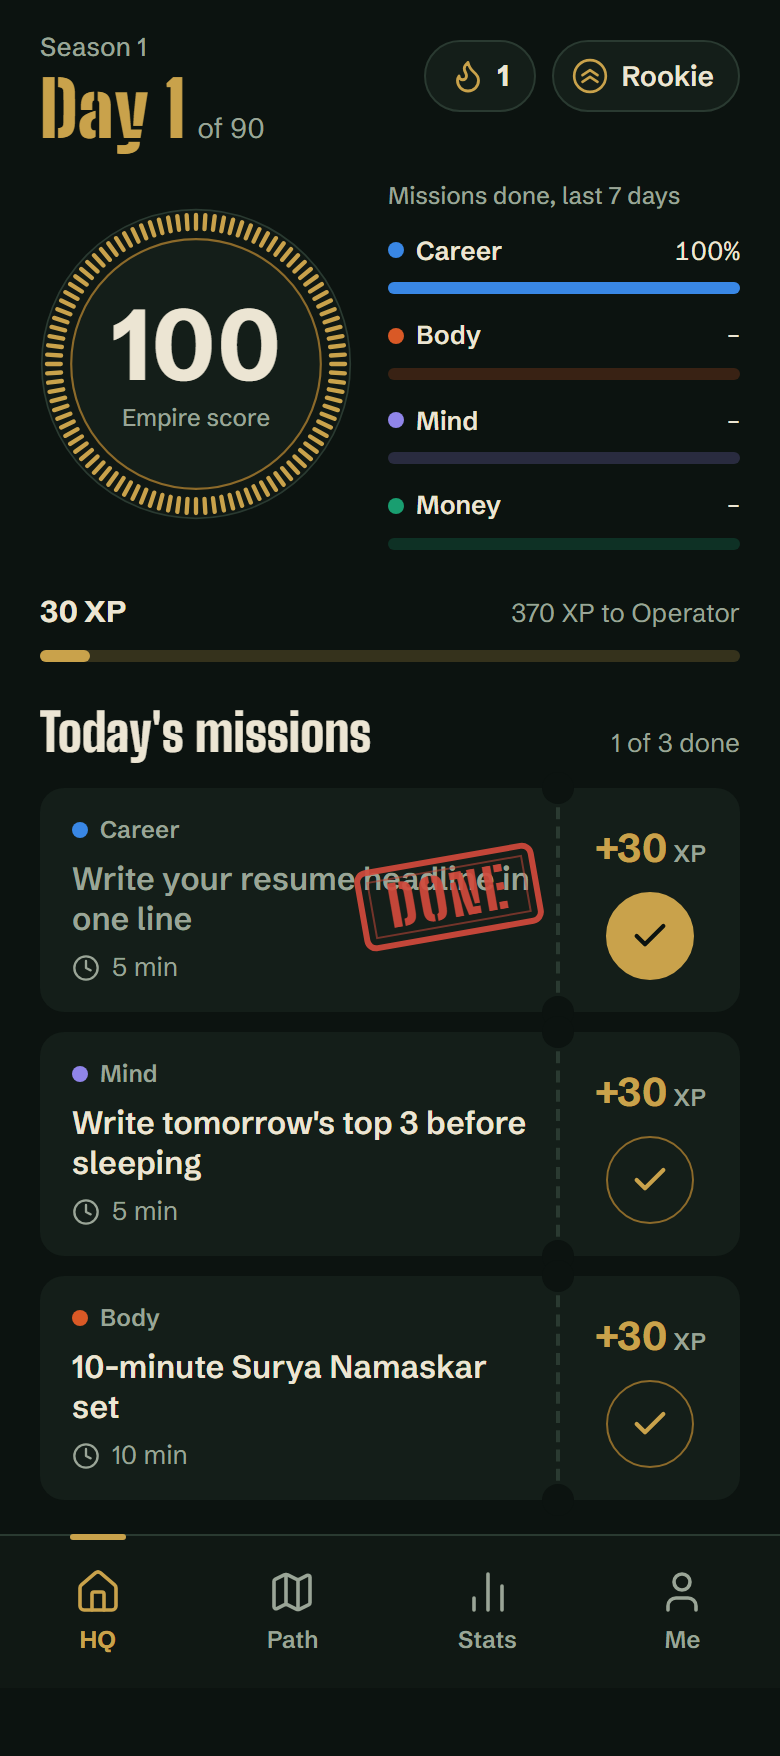
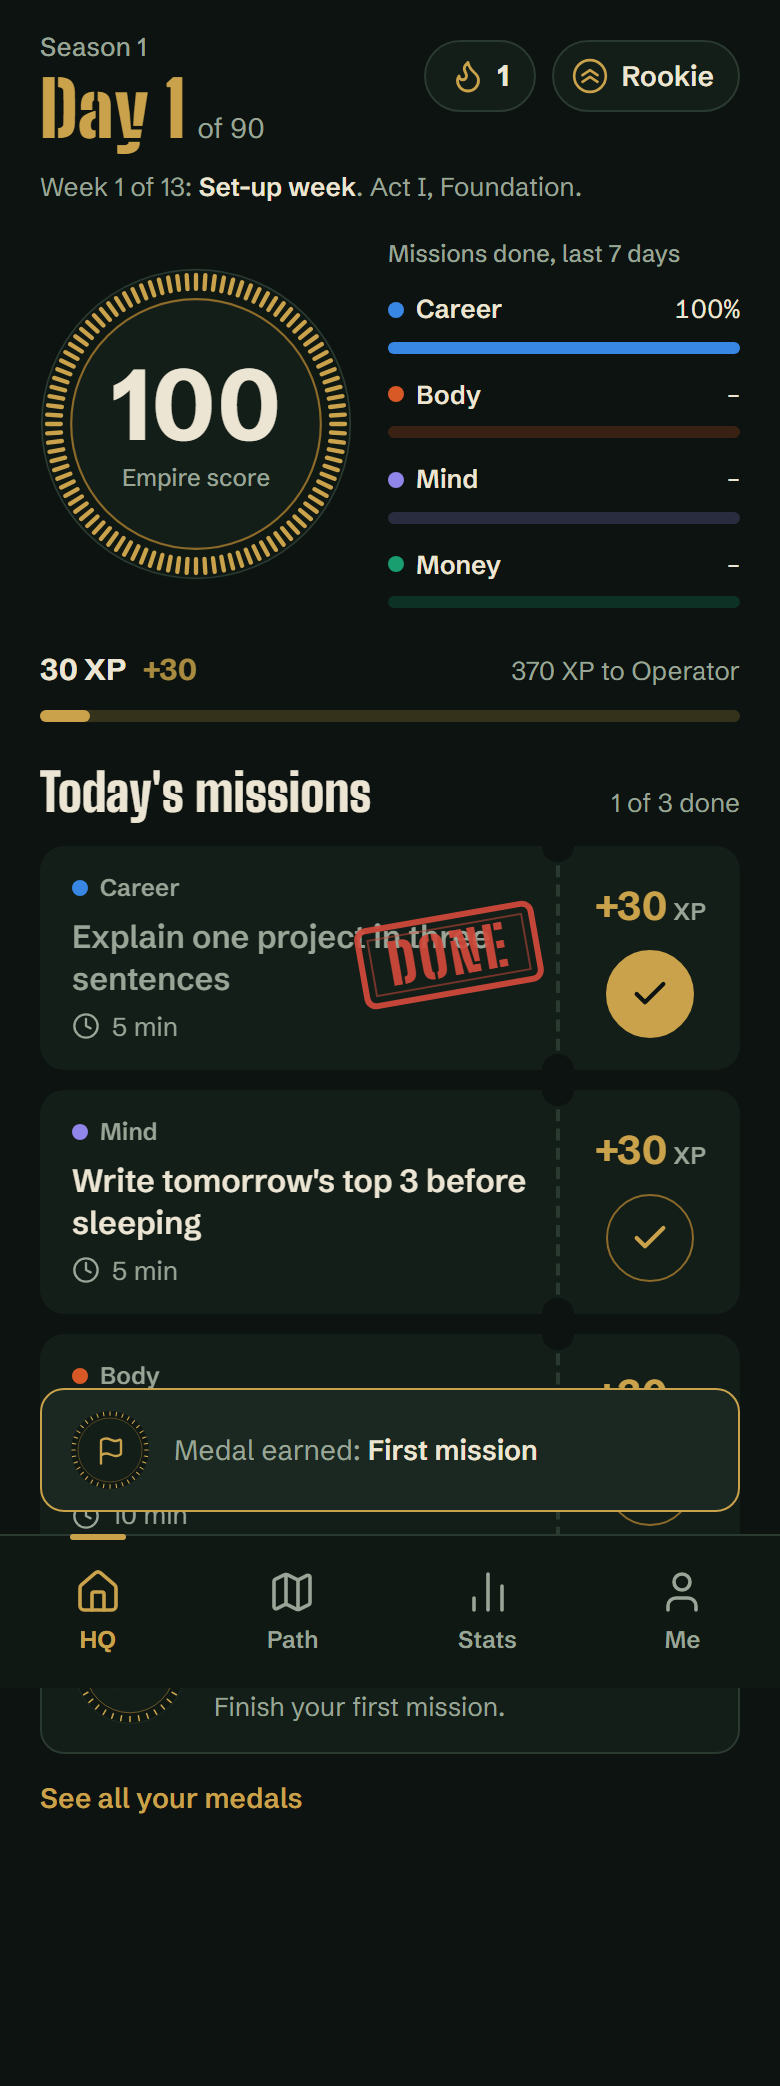
Describe Season 2 in the docs and refresh the portfolio screenshots

diff --git a/docs/PRODUCT.md b/docs/PRODUCT.md
@@ -73,6 +73,8 @@ Goal: a new visitor reaches their plan in under 3 minutes and feels it was made 
 
 **Season:** 90 days in three acts. Act I Foundation (weeks 1 to 4), Act II Execution (weeks 5 to 8), Act III Ascension (weeks 9 to 13).
 
+**After Day 90** (added 26 Oct 2026, rules chosen by the founder): HQ shows "Season 1 complete" with real numbers (days active of 90 on a 90-tick medallion, missions done, time invested, best streak in the season, medals), "Share your season" and "Start Season 2". The next season starts the day the student taps it, from Day 1, with their current plan settings. XP, rank, medals and history stay. There is no second free week: the new season runs on whatever access the student has (Free, or a Season Pass still running); a new Season Pass is a new purchase. The server logs `season_start`, and Founder HQ counts "Next seasons started". Stats and Path show the current season.
+
 **XP:** missions give 30, 45 or 60 by difficulty. Finishing all of today's missions adds 30. XP measures activity in the app only, never a person's worth, looks or wealth.
 
 **Ranks:** Rookie 0, Operator 400, Strategist 1,500, Architect 3,500, Commander 6,500, Legend 10,000 XP.
@@ -102,7 +104,7 @@ Never medical, investment or legal advice. No crash diets, supplements or extrem
 - Act matches the current act; difficulty comes from intensity and week number.
 - No mission repeats within 5 days. Prefer missions tagged with the archetype.
 - Generated once per student per local date, never duplicated.
-- `previewPlan(answers)` returns archetype, top two pillars, three sample missions and three milestones per act. It works before sign-up and writes nothing.
+- `previewPlan(answers)` returns archetype, top two pillars, three sample missions and three milestones per act. It works before sign-up and writes nothing. Season 1, Day 1 uses the preview's tie-breaks, so the student gets exactly the missions the reveal described.
 
 **Packs** (Pass only): Placement Prep, Home Muscle, ₹10K Savings Sprint, Speak Like a Leader. 10 missions each.
 
@@ -133,7 +135,7 @@ Results screen: "What changed and why" in 2 to 4 plain bullets with real numbers
 
 ## 10. Founder HQ
 
-Visible only to users with the founder role (a roles table only the server writes). Read-only cards with a date filter: sign-ups per day; the funnel (landing, quiz start, quiz complete, reveal, oath, sign-up, first mission, came back next day) with drop-off at each step; Day-1, Day-7 and Day-30 return; missions by pillar; most-skipped missions with reasons; paywall views by source; reservations and founder-price count; share cards created; referral sign-ups; colleges and batches. Plus the launch checklist with manual checkboxes saved in the database.
+Visible only to users with the founder role (a roles table only the server writes). Read-only cards with a date filter: sign-ups per day; the funnel (landing, quiz start, quiz complete, reveal, oath, sign-up, first mission, came back next day) with drop-off at each step; Day-1, Day-7 and Day-30 return; missions by pillar; most-skipped missions with reasons; paywall views by source; reservations and founder-price count; share cards created; referral sign-ups; next seasons started; colleges and batches. Sign-up dates come from when the account was created, never from the season start (which moves with Season 2). Plus the launch checklist with manual checkboxes saved in the database.
 
 ## 11. Data rules
 

diff --git a/docs/manuals/STUDENT_GUIDE.md b/docs/manuals/STUDENT_GUIDE.md
@@ -39,6 +39,10 @@ Completed missions count towards XP, rank and activity. At least one finished mi
 
 Minutes in Stats come from the recorded durations of completed missions; they are not a background timer. Charts offer a table view for reading their values. Medals are worked out from the same records each time, so they always match your history; Stats shows the date each one was earned (War Room and Boss beaten show "Earned" without a date).
 
+## Finish a season and start the next
+
+After Day 90, HQ shows **Season 1 complete**: days active out of 90, missions done, time invested, your best streak in the season and your medals, all from your own records. Choose **Share your season** for the image card, or **Start Season 2**. The new season starts that day from Day 1 with your current plan. Your XP, rank and medals come with you; Stats and Path switch to the new season. There is no second free week: you continue on Free (one mission a day) unless you have Season Pass.
+
 ## Review your week
 
 The **War Room** opens from day 7 and then weekly. Use the prompt in HQ or **Me → War Room: review your week**.

diff --git a/docs/API.md b/docs/API.md
@@ -61,7 +61,7 @@ These are application functions compiled into the Next.js action protocol, not s
 
 | Module | Actions | Boundary |
 | --- | --- | --- |
-| [`season.ts`](../app/actions/season.ts) | `startSeason`, `completeMission`, `undoMission`, `skipMission`, `swapMission`, `chooseFreePillar` | Session identity; service checks assignment ownership, day, status and access |
+| [`season.ts`](../app/actions/season.ts) | `startSeason`, `completeMission`, `undoMission`, `skipMission`, `swapMission`, `chooseFreePillar`, `startNextSeason` (after Day 90 only) | Session identity; service checks assignment ownership, day, status and access |
 | [`growth.ts`](../app/actions/growth.ts) | `reservePass`, `setPack`, `setShareName` | Session identity; reservation/access/pack/name-choice validation |
 | [`me.ts`](../app/actions/me.ts) | `updateSettings`, `saveJournal` | Allowed settings only; changes start tomorrow; journal length and profile checks |
 | [`war-room.ts`](../app/actions/war-room.ts) | `submitReview`, `decideProposal`, `completeBoss` | Current review/boss eligibility, access and validated answers |

diff --git a/docs/DEMO.md b/docs/DEMO.md
@@ -71,6 +71,8 @@ From a new Day 1 sample student, use **Me → Founder tools → +7 days**, then 
 
 The Free experience keeps one mission a day in the chosen pillar. Path weeks 2 to 13 and packs are locked. Open **Me → See Season Pass** to inspect the offer. By default it is in **reserve mode**: reserving a price records an intention and explicitly says no payment was taken.
 
+**Season 2:** from a sample student who finished a mission or two, select **+7 days** thirteen times (Day 92). HQ shows **Season 1 complete** with that student's real numbers and **Start Season 2**. Starting it returns to Day 1 with XP, rank and medals kept and no second free week. [Browser coverage](../tests/e2e/daily-loop.spec.ts).
+
 Do not enter real payment details during this tour. Automated checkout tests use a separate stand-in gateway; those checks do not establish that Razorpay has been configured or that real money moved. [Payment tests](../tests/e2e/payments.spec.ts) · [Current status](ROADMAP.md).
 
 ## 6. Open Founder HQ and a sample college

diff --git a/docs/SECURITY.md b/docs/SECURITY.md
@@ -71,7 +71,7 @@ Before real students or colleges:
 
 ## Known implementation follow-ups
 
-- Several live export queries return empty sections on missing/error results without surfacing query errors. Verify completeness and improve error reporting before launch.
+- Live export now fails with an error if any query fails, instead of returning empty sections (26 Oct 2026). Verify the complete file against a real Supabase account before launch.
 - Payment rows cascade with student deletion. Decide and implement financial-record retention with the founder's CA/lawyer before taking money; do not assume the current behavior meets those obligations.
 - Anonymous college-demo requests are not account-linked; define their retention and operator handling before collecting real inquiries.
 - Service writes are privileged and often span multiple store operations. Review partial failures, concurrency and retries against the real database/provider; local idempotency tests do not establish every distributed failure mode.

diff --git a/README.md b/README.md
@@ -30,7 +30,7 @@ The intended outcome is more consistent action. Employment, health, savings, ret
   <tr><th>A plan with a reason</th><th>Today's mission tickets</th><th>A weekly reset</th></tr>
   <tr>
     <td><img src="docs/images/archetype.png" alt="The Grinder archetype reveal with a three-act season and reasons based on Rahul's fictional quiz answers" width="260"></td>
-    <td><img src="docs/images/student-hq.png" alt="Student HQ with the season medallion, pillar meters, XP and today's mission tickets" width="260"></td>
+    <td><img src="docs/images/student-hq.png" alt="Student HQ with this week's theme, the score medallion, pillar meters, XP rising after a done mission, mission tickets and a medal note" width="260"></td>
     <td><img src="docs/images/war-room.png" alt="War Room weekly review asking about difficulty, blockers and next week's focus" width="260"></td>
   </tr>
 </table>

diff --git a/docs/OPERATIONS.md b/docs/OPERATIONS.md
@@ -26,7 +26,7 @@ The founder enters secret values directly into local/host settings. Agents must 
 
 | Area | Required check before relying on it |
 | --- | --- |
-| Database | Apply the eight migrations in filename order; compare generated types with [`lib/supabase/types.ts`](../lib/supabase/types.ts) |
+| Database | Apply the nine migrations in filename order; compare generated types with [`lib/supabase/types.ts`](../lib/supabase/types.ts) |
 | Authentication | Verify email-code and Google sign-in, redirects, sign-out and session refresh using real test accounts |
 | Permissions | Run `npm.cmd run test:rls` on the intended development project and inspect Supabase Security Advisor; recheck every role's application access |
 | Host | Build and deploy the intended commit, set the canonical site URL, and confirm neither local test flag is configured |
